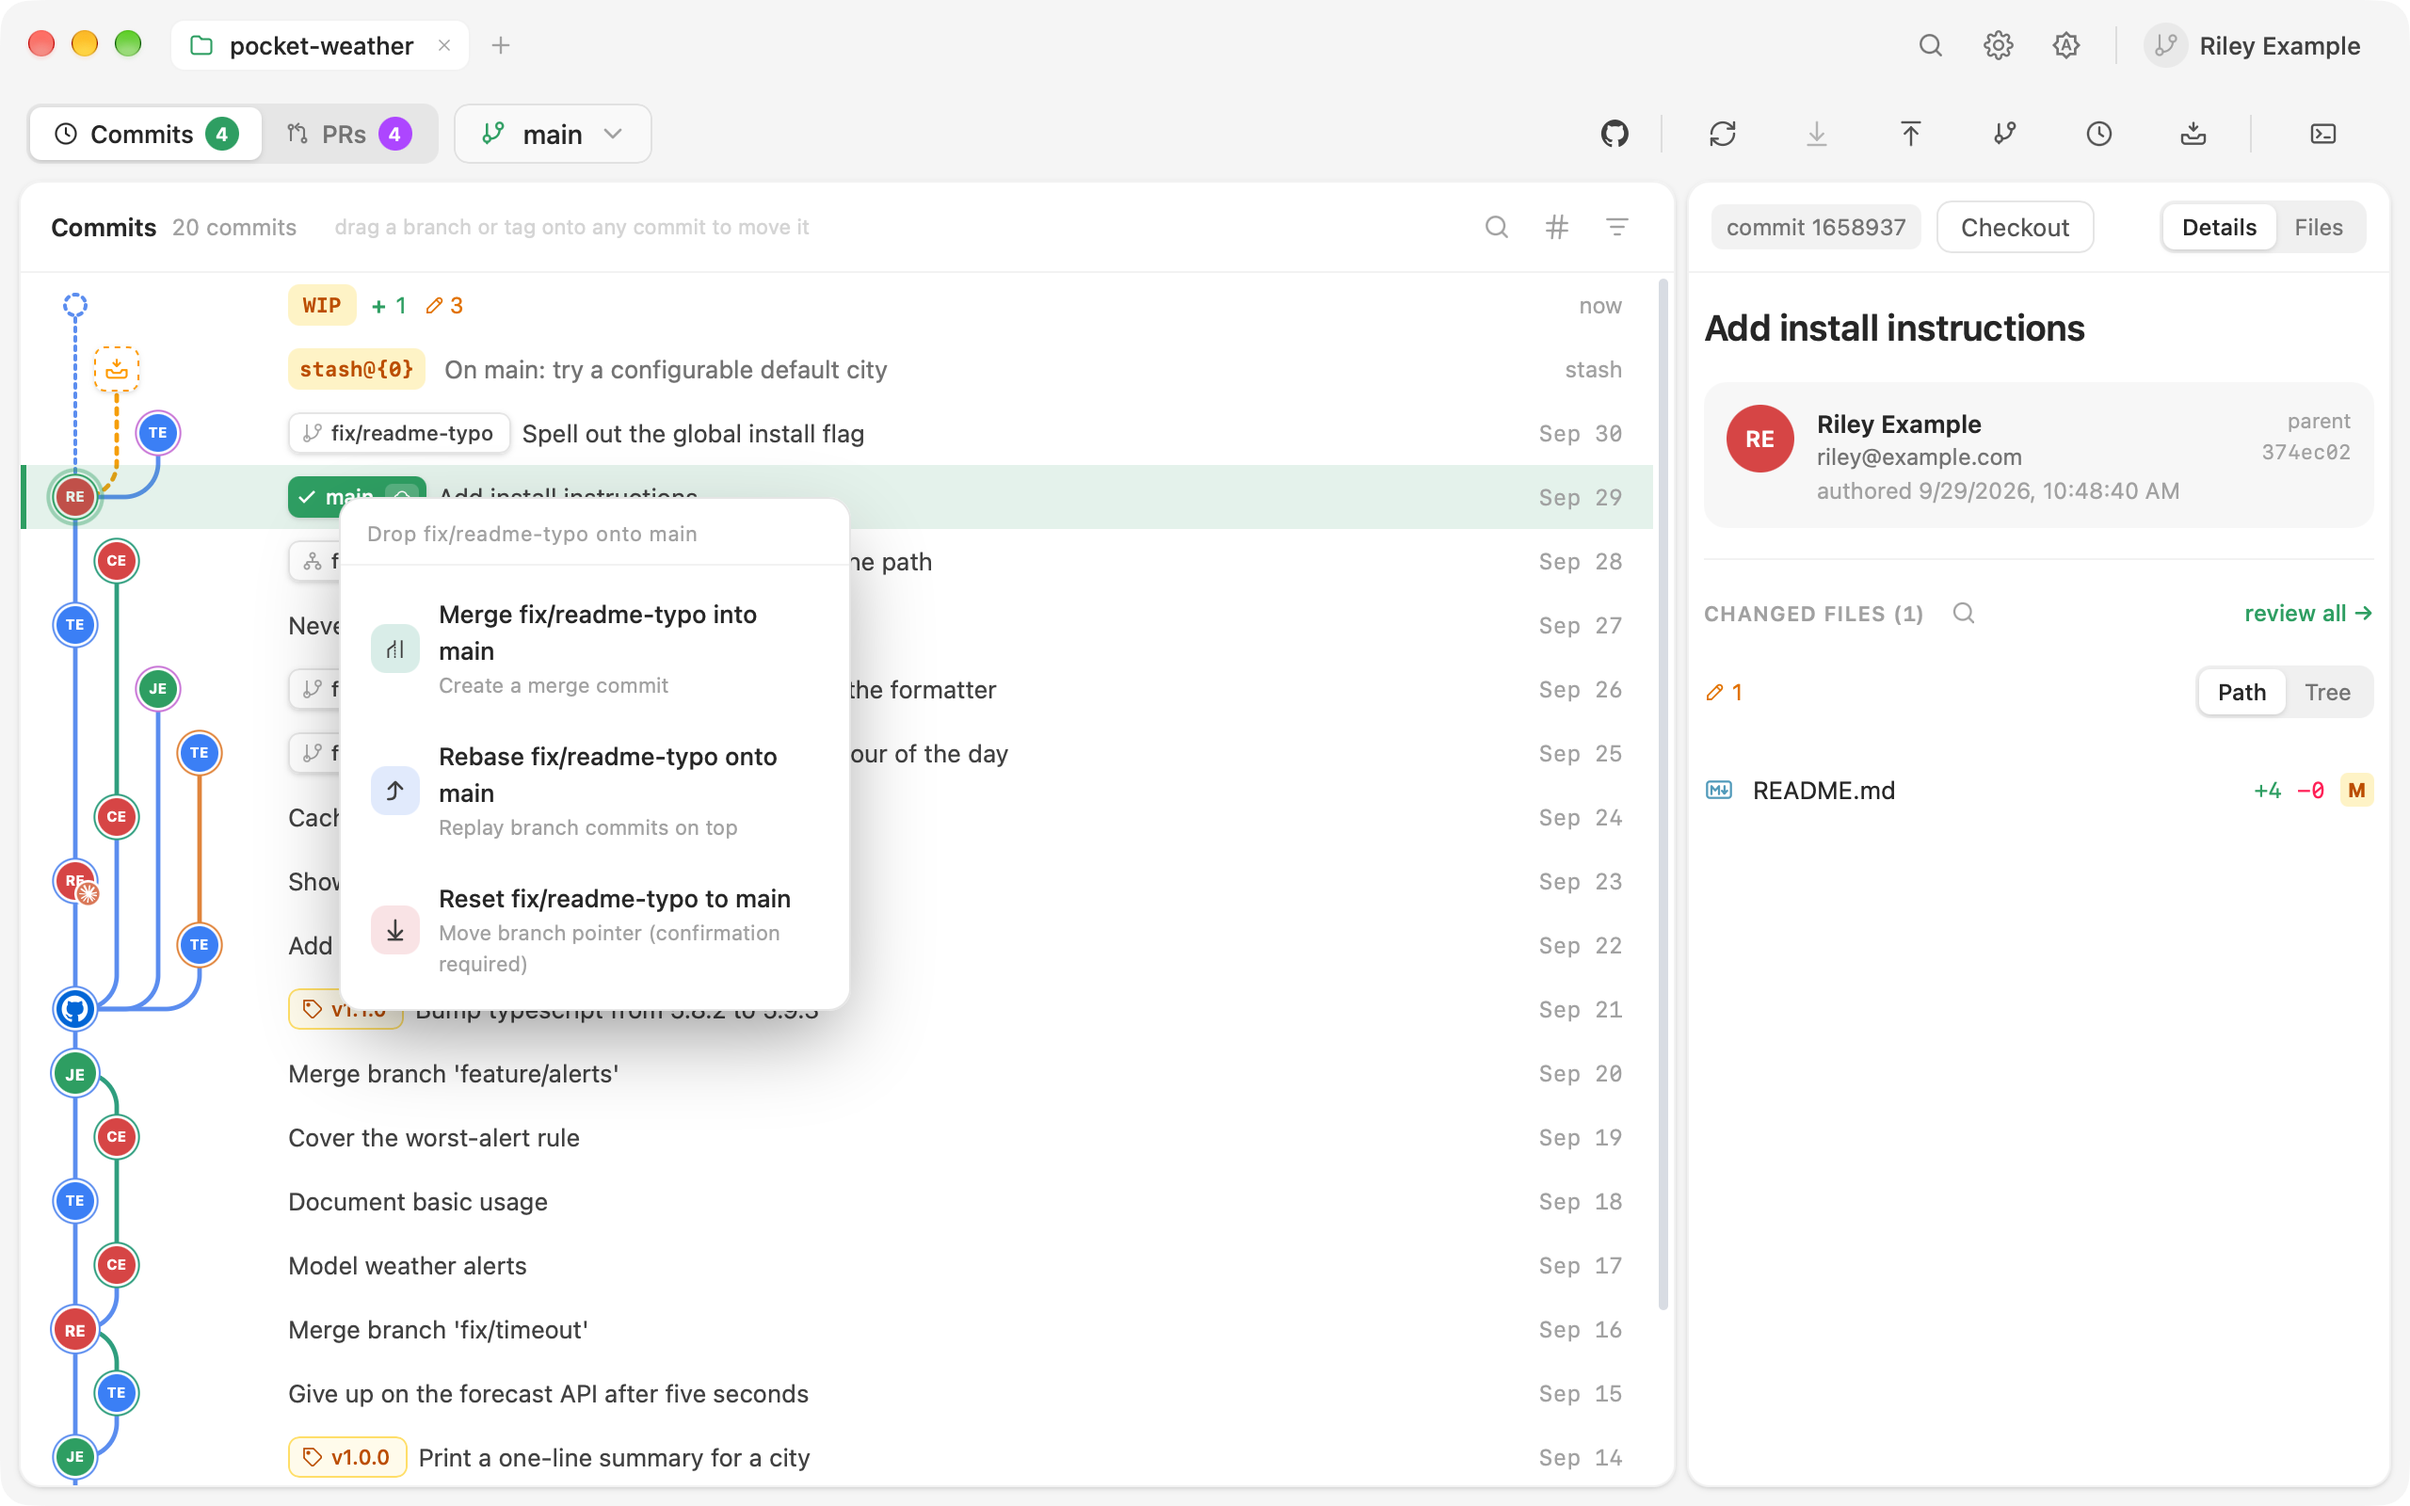
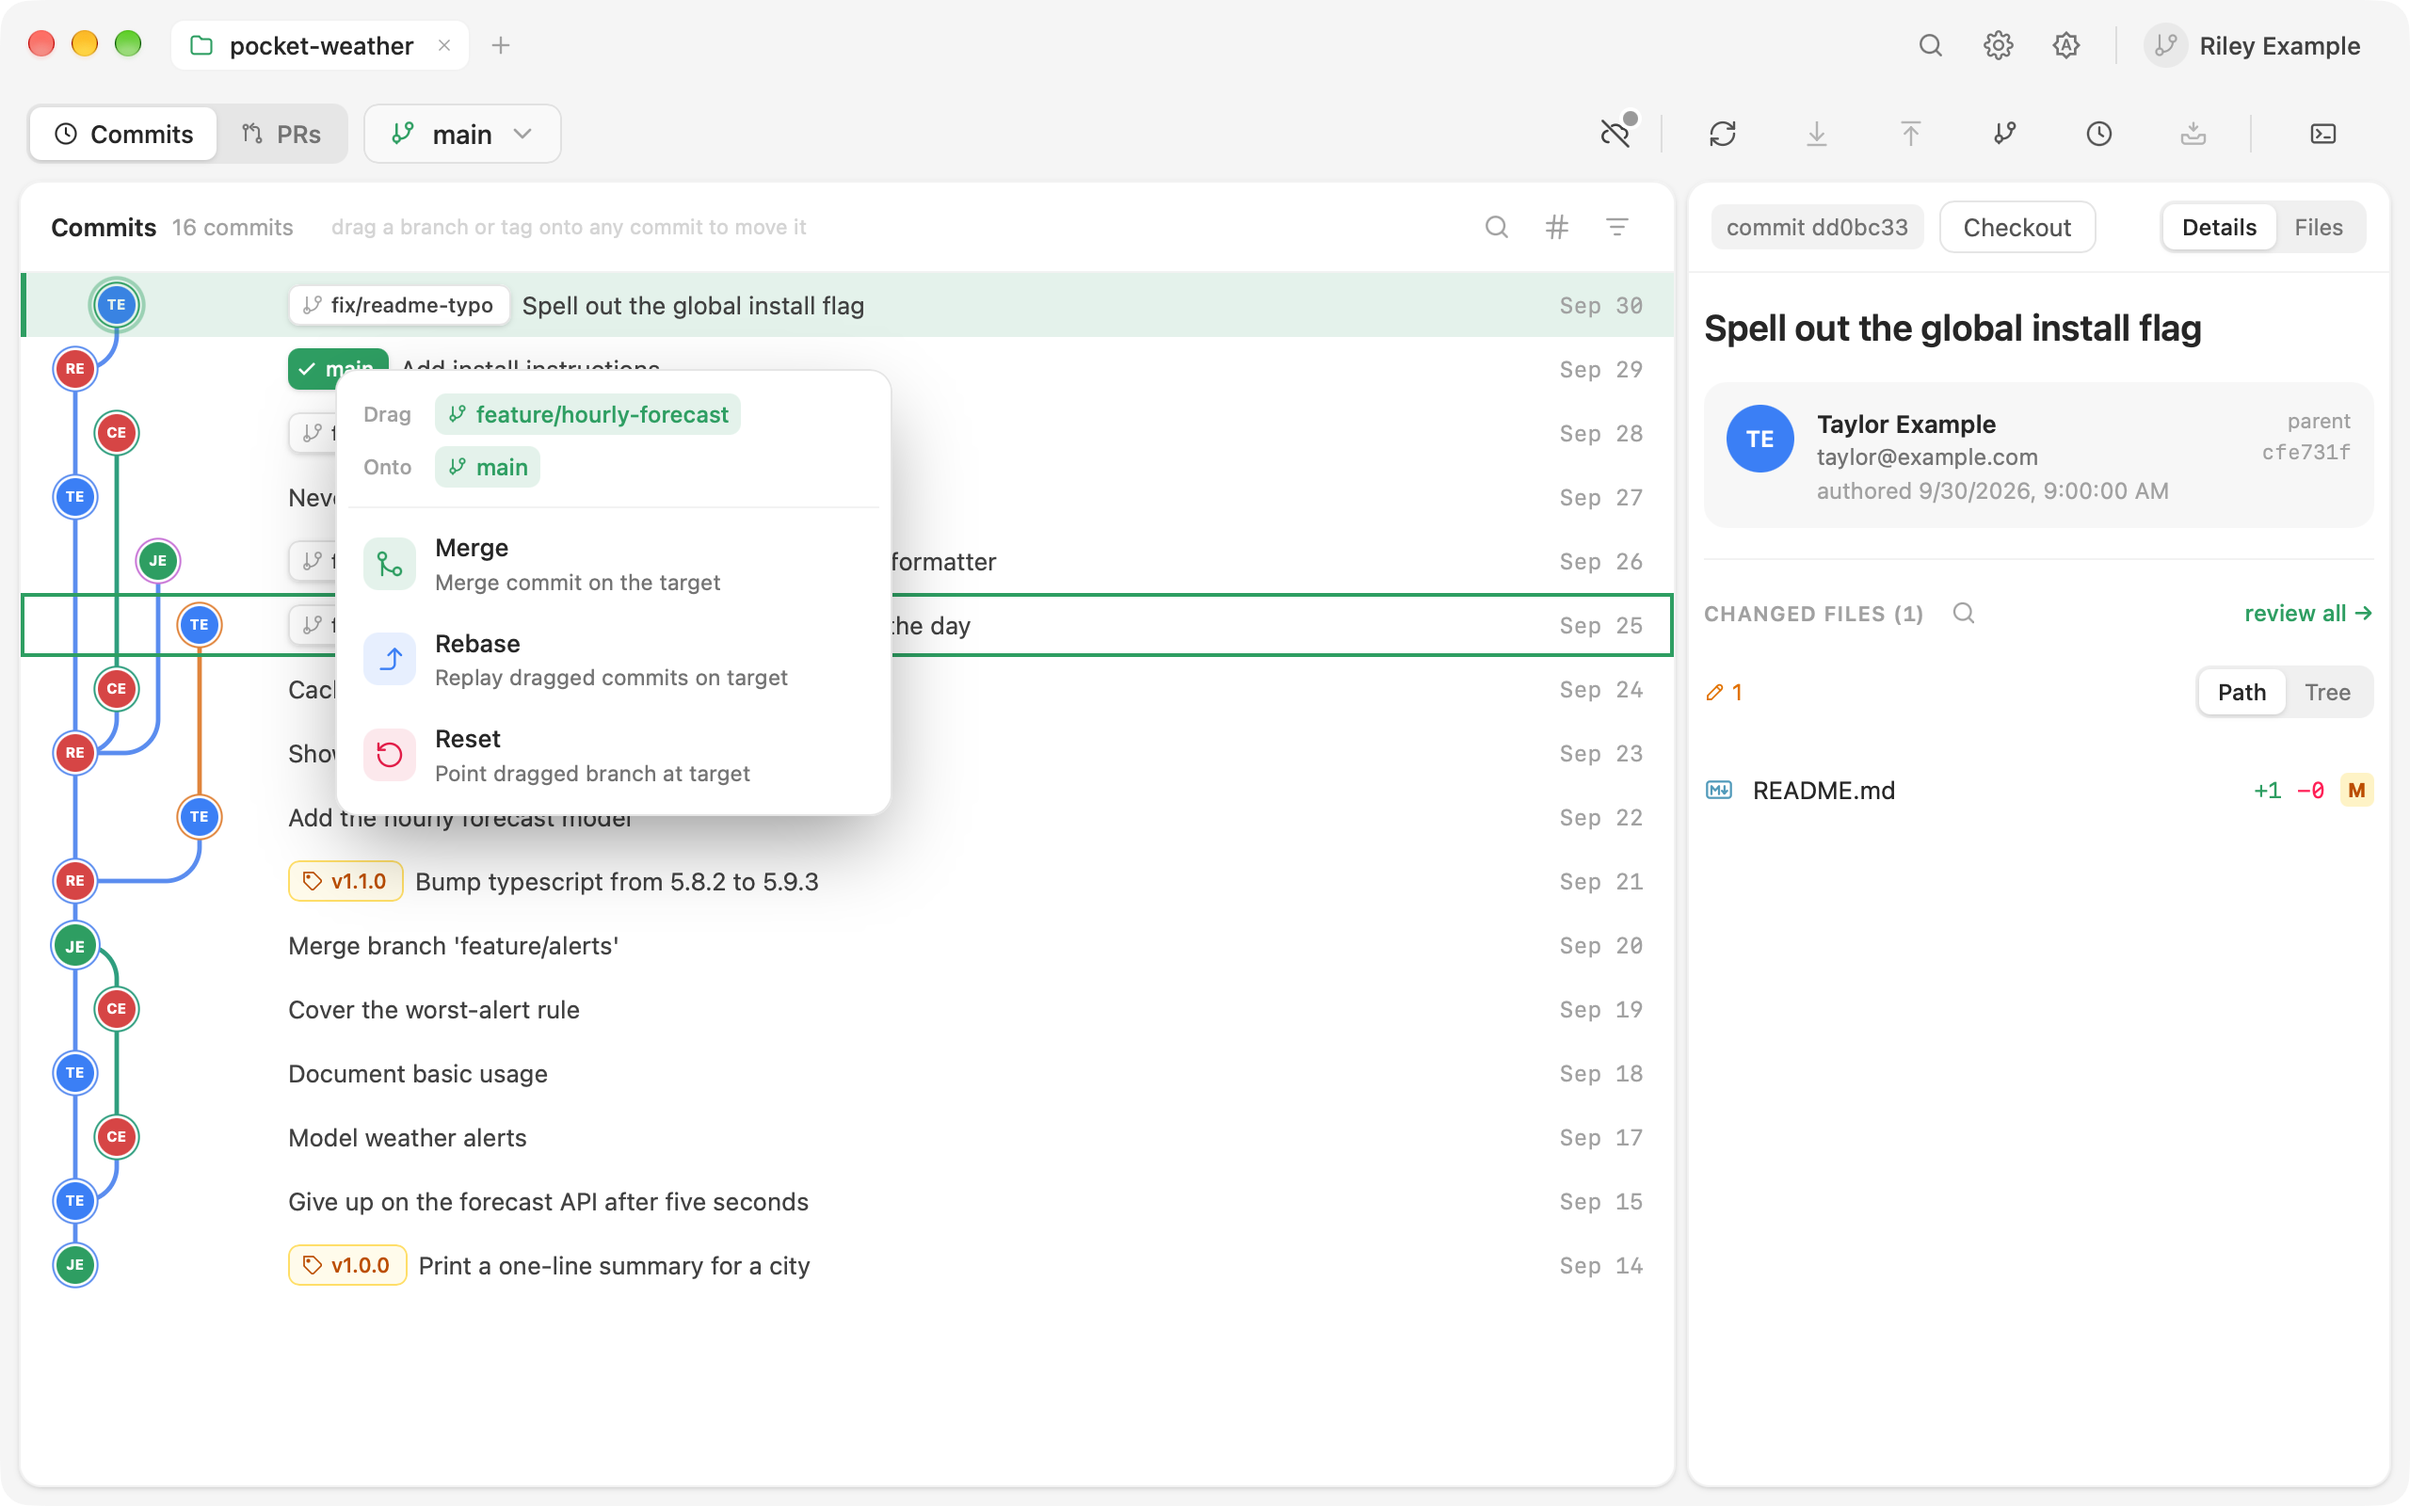
docs(screenshots): Recapture the drag-and-drop menu for v2.8.1 (#590)
The README and manual showed the drop menu from before the v2.8.1
redesign. Replace drag-drop-menu.png in docs/screenshots and the docs
site with a 2560x1600 capture of the v2.8.1 release on the fictional
pocket-weather demo repository: the Drag / Onto header, then Merge,
Rebase and Reset with their descriptions. The screenshots README now
says which capture shows which version.

Docs only.

diff --git a/docs/screenshots/README.md b/docs/screenshots/README.md
@@ -3,8 +3,10 @@
 These images are embedded in the top-level [README](../../README.md).
 
 > **Current status:** all eleven PNGs are full-window Retina captures (2560×1600)
-> of a v2.7.0 dev build in a 1280×800 window, on a fictional demo repository with
-> fictional pull requests. Recapture with the guidelines below when the UI changes.
+> in a 1280×800 window, on a fictional demo repository with fictional pull
+> requests. `drag-drop-menu.png` shows the v2.8.1 release (the redesigned drop
+> menu); the other ten show a v2.7.0 dev build. Recapture with the guidelines
+> below when the UI changes.
 
 Capture guidelines: use a tidy demo repository (no client/private code or real
 people's names; a surname like "Example" can't match anyone), a 1280×800 window,
@@ -16,7 +18,7 @@ app window, without the desktop behind it. Light theme, except the `-dark` files
 | --- | --- |
 | `hero-graph.png` | The History workspace on a repo with several colored branch lanes and a couple of merges — the signature swimlane graph. Full app window. |
 | `hero-graph-dark.png` | The same History workspace in the dark theme. |
-| `drag-drop-menu.png` | Mid drag-and-drop: one branch ref dropped onto another with the action menu open (Merge / Rebase / Reset visible). |
+| `drag-drop-menu.png` | Mid drag-and-drop: one branch ref dropped onto another with the action menu open (the Drag / Onto header, then Merge / Rebase / Reset with their descriptions). |
 | `changes-staging.png` | The Changes workspace in its Staging area view with a few staged + unstaged files and a diff visible (unified or split). |
 | `changes-staging-dark.png` | The same Changes workspace in the dark theme. |
 | `include-review.png` | The Changes workspace in its Include view: a file whose differences each show a ticked checkbox. |
